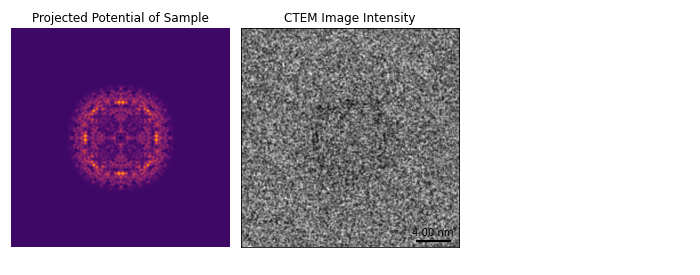
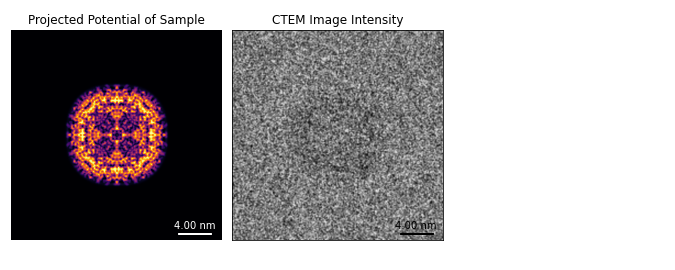
updating intro

diff --git a/01_phase_problem_em.md b/01_phase_problem_em.md
@@ -11,25 +11,60 @@ short_title: EM Phase Problem
 (intro)= 
 # Introduction
 
-One of the most powerful operating modes for transmission electron microscopy (TEM) is *phase contrast imaging* where imaging optics or detector configurations are used to convert phase modulations of the electron beam into intensity variations {cite:p}`carter2016transmission`. The simplest method to produce phase contrast in plane wave TEM imaging is to apply under- or over-focus to the electron wave after it interacts with the sample, shown in [](#phase_problem_em). The sample shown here is (a protein), which produces very weak diffraction of the electron beam. To produce usable contrast, we must either apply a large defocus or increase the electron fluence, often colloquially referred to as the electron dose {cite:p}`egerton2021dose`. 
+One of the most powerful operating modes for [transmission electron microscopy](wiki:Transmission_electron_microscopy) (TEM) is [phase contrast imaging](wiki:Phase-contrast_imaging) (PCI) where imaging optics or detector configurations are used to convert phase modulations of the electron beam into intensity variations {cite:p}`carter2016transmission`. The simplest method to produce phase contrast in plane wave TEM imaging is to apply under- or over-focus to the electron wave after it interacts with the sample, shown in [](#phase_problem_em). The protein sample shown here is [apoferritin](https://www.rcsb.org/structure/8RQB), which produces very weak diffraction of the electron beam. To produce usable contrast from defocus, we must either apply a large defocus or increase the electron fluence, often colloquially referred to as the electron dose {cite:p}`egerton2021dose`. 
 
 
 ```{figure} #app:phase_problem_em
 :name: phase_problem_em
 :placeholder: ./static/phase_problem_em.png
-**Plane wave HRTEM imaging simulation of (a protein).** When the defocus is zero, this weakly-scattering sample produces only a small amount of amplitude constast. By defocusing the scattered electron wave or introducing a Zernike phase plate, we can increase the contrast. This produces measurable intensity variations even for very low electron fluence.
+**{abbr}`Plane wave HRTEM imaging simulation of apoferritin (Press the button on the upper right to get an interactive figure - try changing the defocus, electron dose, or zooming in!)`.** When the defocus is zero, this weakly-scattering sample produces only a small amount of amplitude constast. By defocusing the scattered electron wave or introducing a Zernike phase plate (plotted with the sign convention as the sample potential), we can increase the contrast. This produces measurable intensity variations even for very low electron fluence.
 ```
-
-
-
-
-
-
 <!-- :::{figure} #app:phase_problem_em
 :name: phase_problem_em
 :placeholder: ./static/phase_problem_em.png
 Phase problem in electron microscopy. 
 ::: -->
+
+Defocusing an electron [wavefunction](wiki:Wave_function) $\psi_0(\vec{r})$ by a distance $\Delta f$ to produce the output wave $\psi(\vec{r})$ can be modeled mathematically using the expression
+```{math}
+:label: eq:defocus_real
+
+\begin{align} 
+	\psi(\vec{r}) = \psi_0(\vec{r})
+		\circledast \frac{i}{\lambda \Delta f}
+		\exp \left( \frac{i |\vec{r}|^2}{2 \lambda \Delta f} \right)
+\end{align},
+```
+where $\lambda$ is the (relativistically-corrected) electron wavelength, $i$ is the imaginary constant, and $\circledast$ is the 2D convolution operator. This expression is not practical for numerical calculations, and so we use the [convolution theorem](wiki:Convolution_theorem) to defocus the wave using 2D [fast Fourier transforms](wiki:Fast_Fourier_transform) (FFT), given by the expression 
+```{math}
+:label: eq:defocus_fft
+
+\begin{align} 
+	\Psi(\vec{k}) = \Psi_0(\vec{k})
+		\exp \left( -i \pi \lambda \Delta f \right)
+\end{align},
+```
+where $\Psi(\vec{k})= \mathscr{F}_{r \rightarrow k}\{\psi(\vec{r})\}$ is the 2D Fast Fourier transform between the real space coordinates $\vec{r}$ and Fourier space coordinates $\vec{k}$.
+
+
+An alternative PCI method for plane wave TEM is to use a post-specimen phase plate which advances the phase of each the unscattered zero beam with respect to the scattered electrons, or vice versa. These phase plates have various designs, including a Zernike phase plate {cite:p}`zernike1942phase`, Boersch phase plate {cite:p}`boersch1947kontraste`, Volta phase plate {cite:p}`danev2014volta`, or the recently developed laser phase plates {cite:p}`schwartz2017near`. An ideal phase plate can be modeled using the expression
+```{math}
+:label: eq:phase_plate
+
+\begin{align} 
+	\Psi(\vec{k}) = \Psi_0(\vec{k}) (1 + \delta(\vec{k})(i - 1))
+\end{align},
+```
+where $\delta(\vec{k})$ is the [Delta Dirac function](wiki:Dirac_delta_function). [](#phase_problem_em) shows how phase plate PCI compares to defocusing the sample. We note however that practical implementations of phase plates remaining challenging, and typically do not perform as well as the ideal case {cite:p}`nagayama2011another`.
+
+Finally we again emphasize that TEM experiments typically cannot directly measure phase. For each of the PCI techniques considered above, the detector measures the intensity $I(\vec{r})$ (amplitude squared) of the electron wave, given as
+```{math}
+:label: eq:intensity_detector
+
+\begin{align} 
+	I(\vec{r}) = |\Psi(\vec{r})|^2
+\end{align}.
+```
 
 
 
